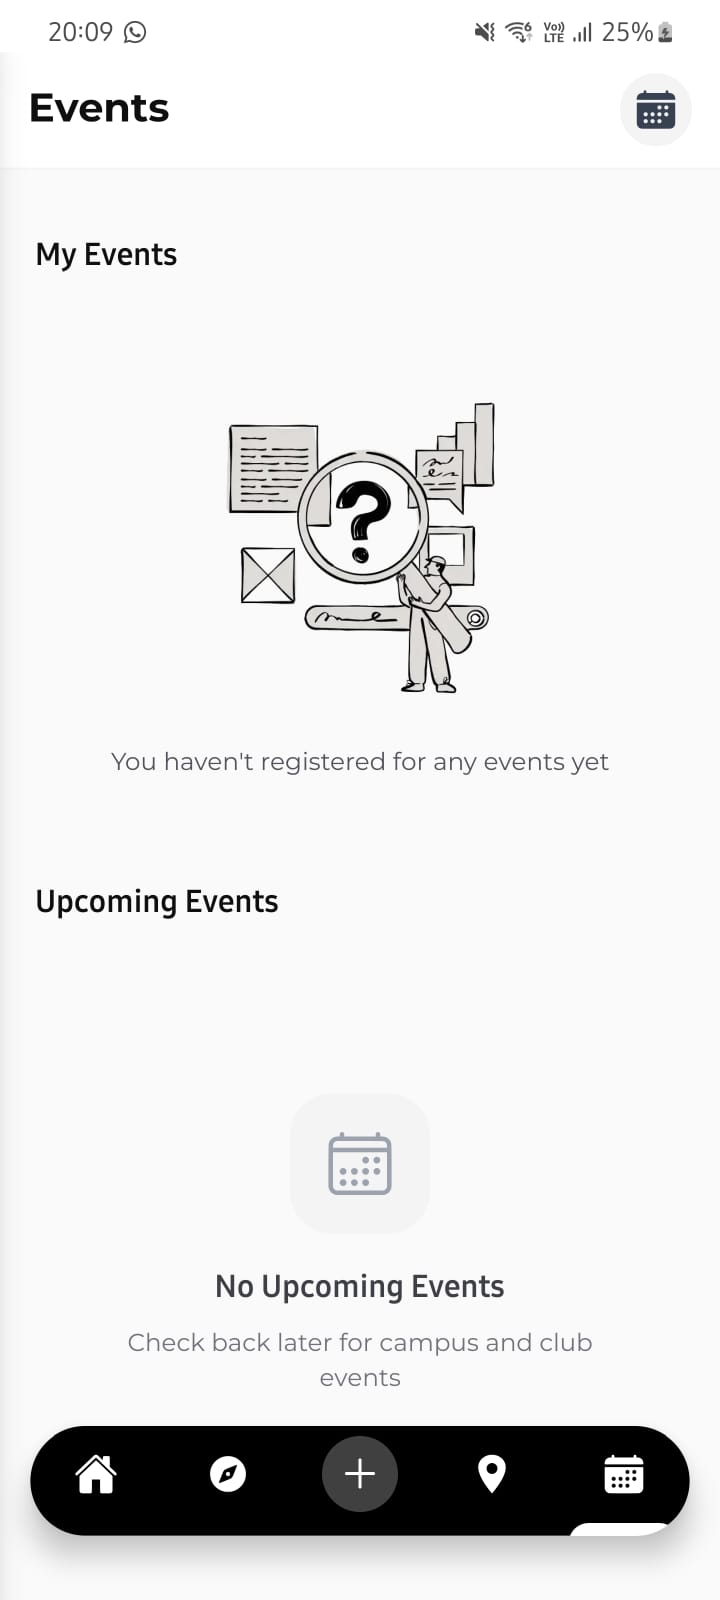
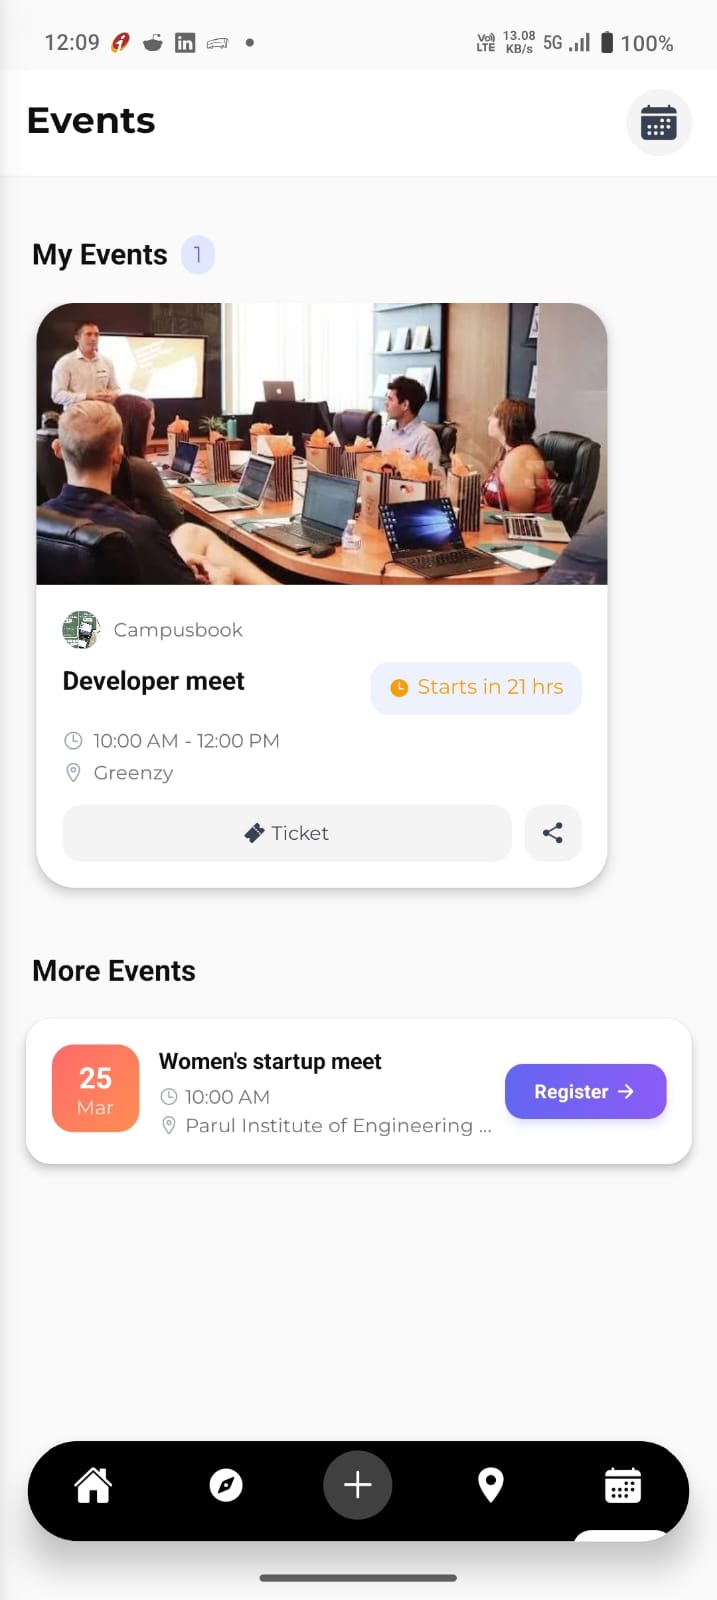
images and an faq wrongtext

diff --git a/components/FAQ.tsx b/components/FAQ.tsx
@@ -6,7 +6,7 @@ import { ChevronDown } from "lucide-react";
 const faqs = [
   {
     q: "Do I need a university email to sign up?",
-    a: "Yes, CampusBook requires a valid university email address (.edu or equivalent) to ensure the platform remains exclusively for students. This keeps the community safe and relevant.",
+    a: "Yes, CampusBook requires a valid university email address (@paruluniversity.ac.in) to ensure the platform remains exclusively for students. This keeps the community safe and relevant.",
   },
   {
     q: "How does the NSFW content moderation work?",
@@ -26,7 +26,7 @@ const faqs = [
   },
   {
     q: "Can I create my own community or club page?",
-    a: "Any student can create a community around any interest. For official club/society pages with a verified badge and analytics dashboard, you'll need the Club/Society plan. Contact us to get started.",
+    a: "Currently, any student can create a community around any interest. For official club/society pages with a verified badge and analytics dashboard, you'll need the Club/Society plan. Contact us to get started.",
   },
   {
     q: "How do I report a problem or abusive content?",
